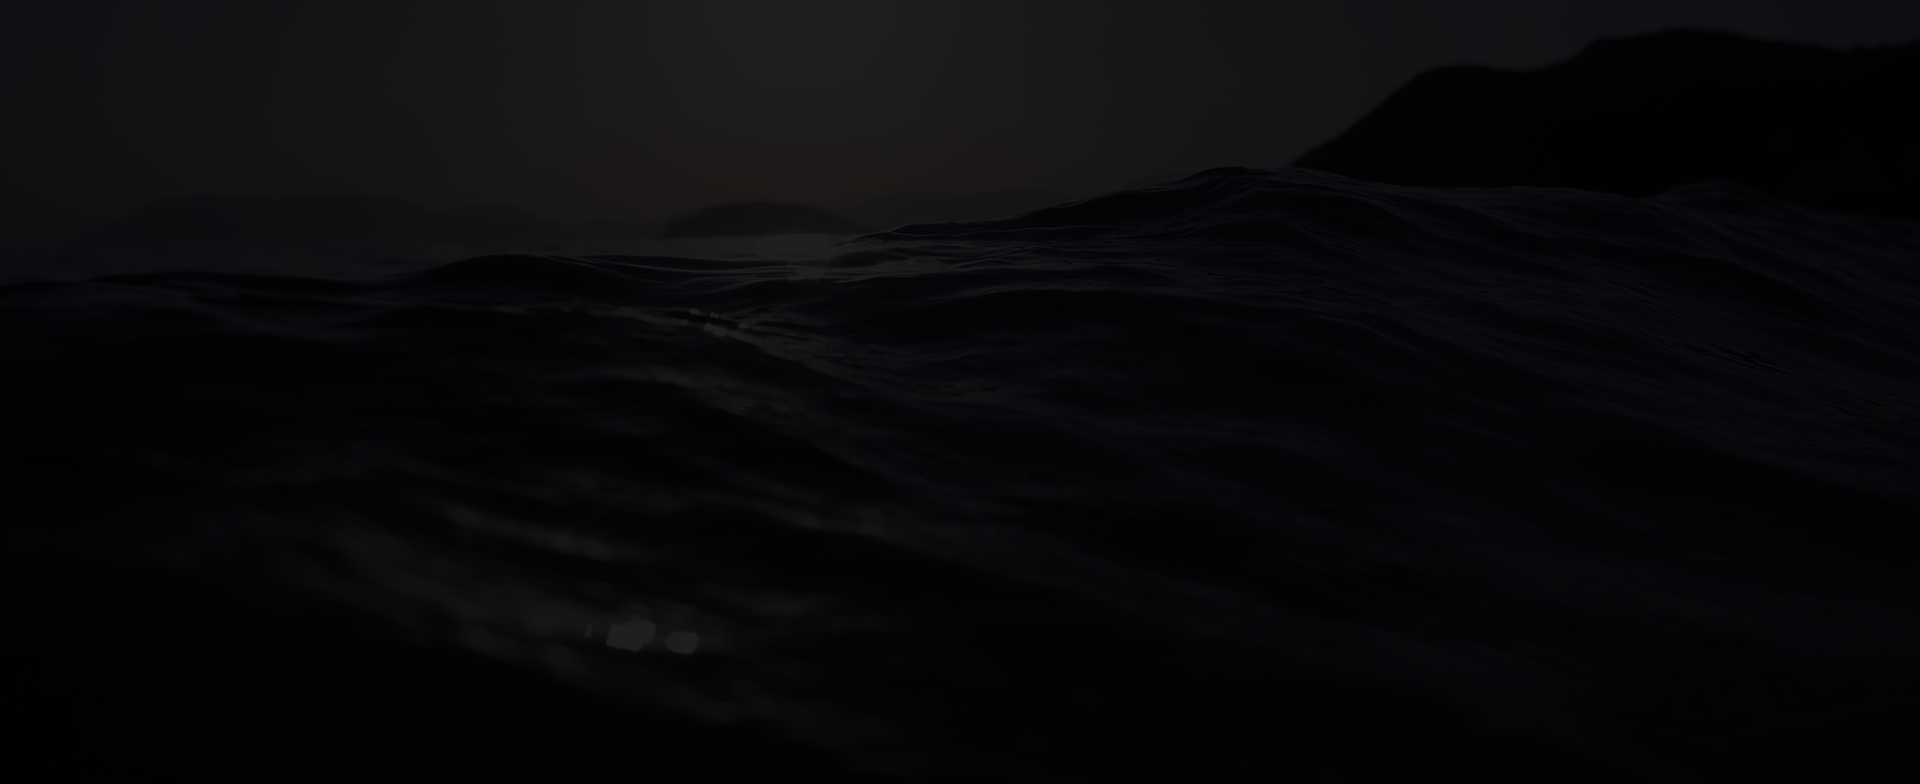
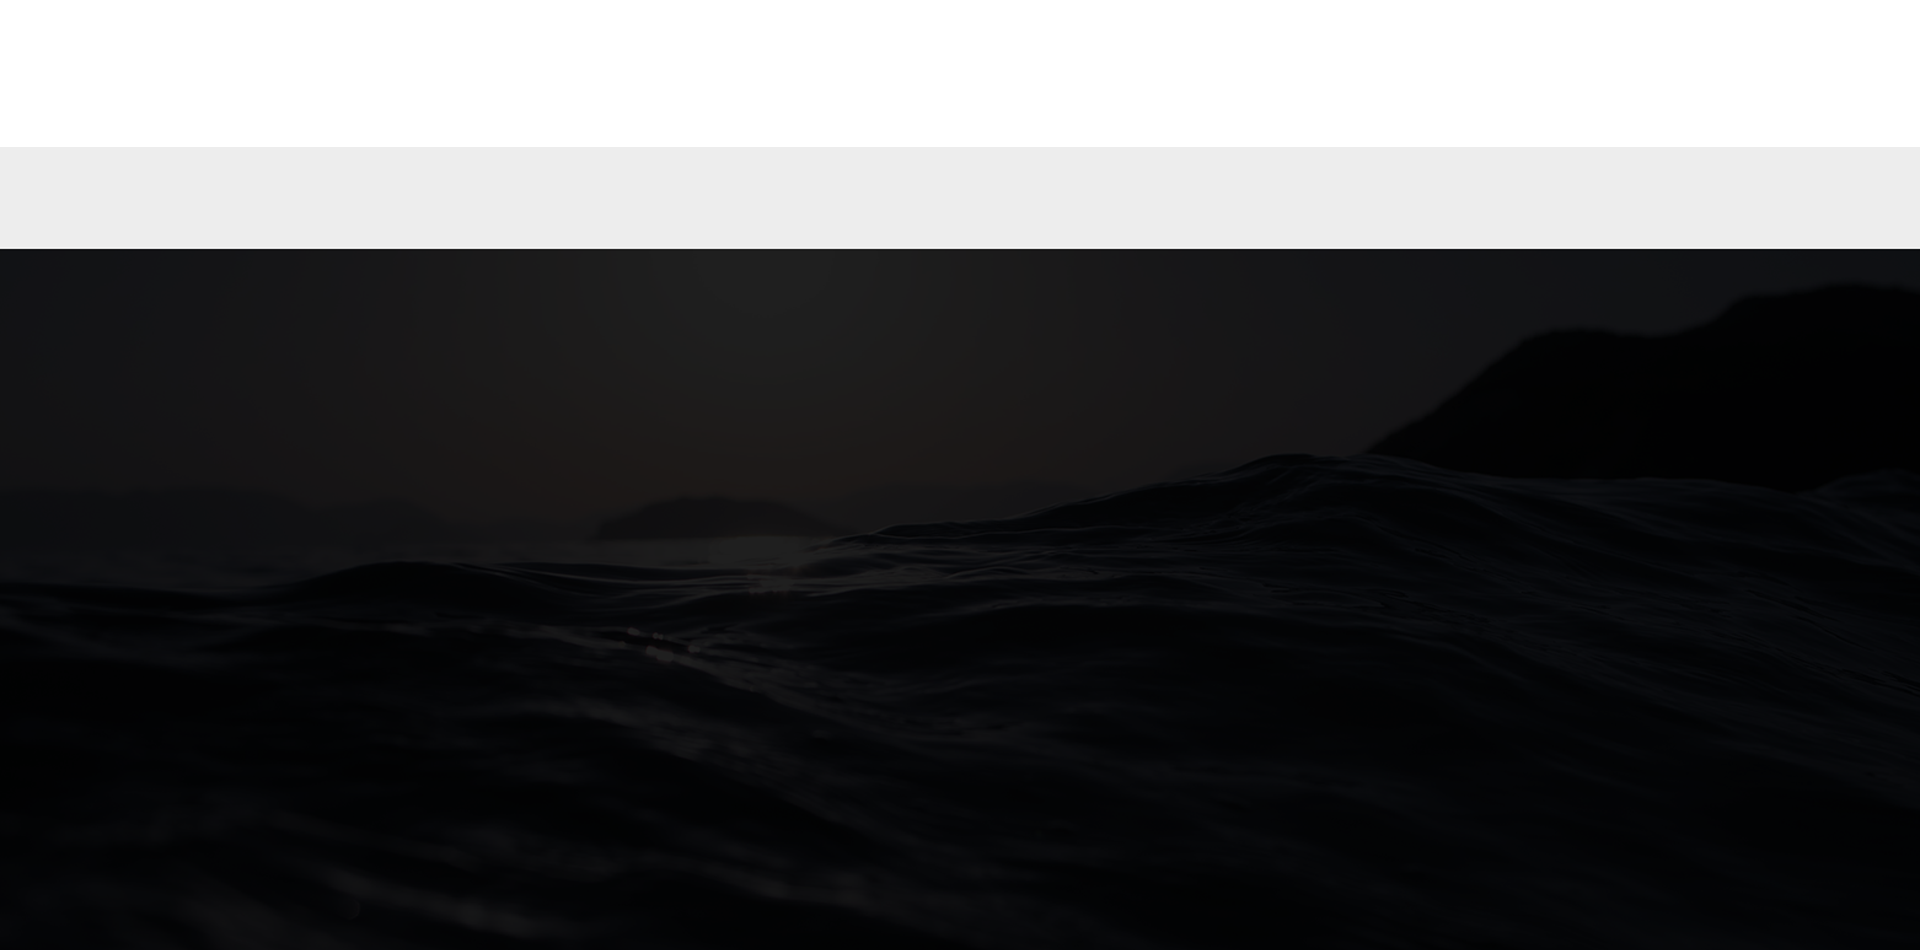
footer fixes

diff --git a/css/style.css b/css/style.css
@@ -244,7 +244,6 @@ article {
 /* Slideshow container */
 .slideshow-container {
   position: relative;
-  background: #f1f1f1f1;
 }
 
 /* Slides */
@@ -323,8 +322,10 @@ q {font-style: italic;}
 	padding-bottom:300px;
 	margin-top:0px;
 	background-image: url("../img/footer.png");
+	background-attachment:fixed;
+	background-repeat:no-repeat;
+	vertical-align:bottom;
 	padding-top:30px;    
-	border-top: 3px solid #040617;
 	height: 333px;
 }
 
